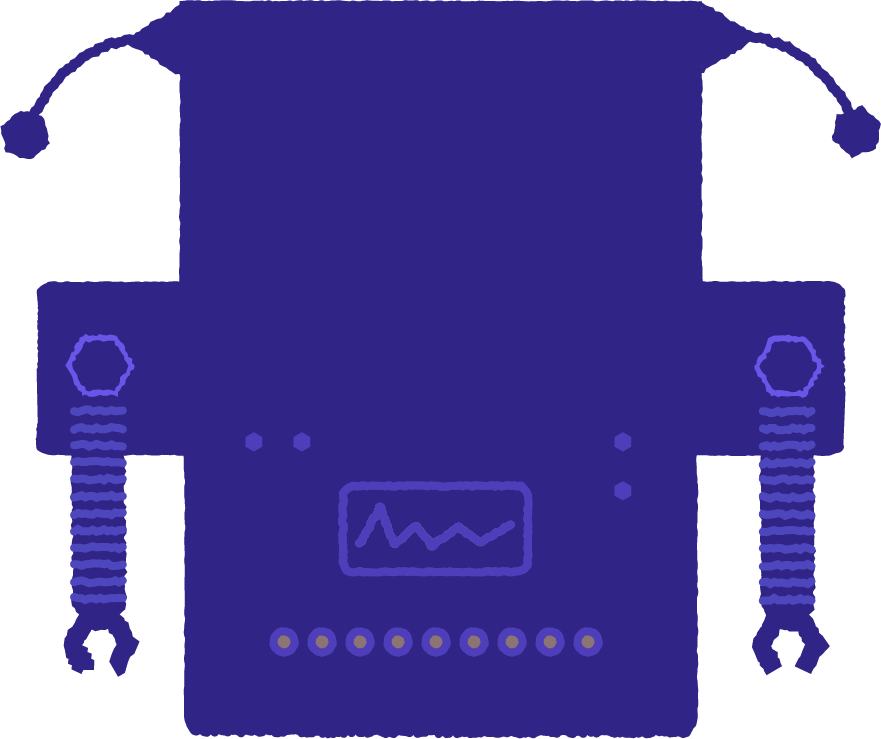
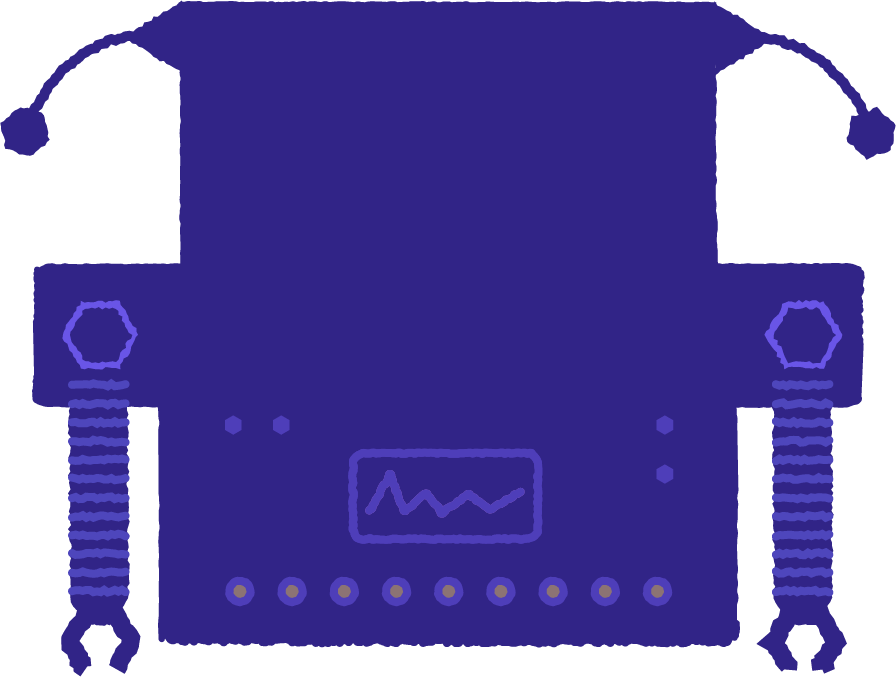
added different color Backgrounds + minior fixes off body image

diff --git a/index.css b/index.css
@@ -314,10 +314,10 @@ ___________________ */
         color: #ffffff;
         z-index: 950;
         font-size: 1.2rem;
-        top:-1.9em; 
+        top:-2.7em; 
         left: 50%;
         letter-spacing: .03em;
-        width: 250px;
+        width: 270px;
         height: 80px;
         font-family: 'VT323', monospace;
         transform: translateX(-50%) ;
@@ -415,6 +415,7 @@ ___________________ */
         /* position: relative; */
         top: .4em;
         height: 3em;
+        width: 390px; 
         /* maxwidth: 100% */
     }
    .stomac-img{
@@ -431,7 +432,7 @@ ___________________ */
         position: absolute;
         object-fit: cover;
         max-width: 80vw;
-        top: -13.3em;
+        top: -13.9em;
         left: 50%;
         transform: translate(-50%);
         z-index: 3;
@@ -493,7 +494,7 @@ ___________________ */
    }
    .canvas-color{
    
-    background-color: #52C1FF; 
+    
     filter: blur(15px);
     position:absolute; 
     mix-blend-mode: overlay; 
@@ -574,7 +575,7 @@ ___________________ */
         font-family: 'VT323', monospace; 
        
         color: #e8ecee; 
-        position: fixed;
+        /* position: fixed; */
         opacity: 1;
        
         z-index: 300;
@@ -691,7 +692,7 @@ ___________________ */
     }
     .canvas {
       
-        width: 330px;
+        width: 350px;
        
     }
     .display-img{
@@ -759,7 +760,7 @@ ___________________ */
    }
    .body-img{
         display: flex;
-        max-width: 600px;
+        max-width: 670px;
 
    }
     .stomac-img{
@@ -782,8 +783,12 @@ ___________________ */
     }
     .share-btn{
       right: 3em;
-      
+      position: fixed;
       bottom: 93vh;
+    }
+
+    .canvas-color{
+        height: 110%;
     }
   
 }
@@ -827,6 +832,7 @@ ___________________ */
 }
 
 @media (min-width:1500px) {
+   
     .papper{
         height: 18.3em;
     }
@@ -841,7 +847,7 @@ ___________________ */
 @media (min-height:800px) {
   
     .legs{
-        height: 40vh;
+        height: 48vh;
     }
     
     

diff --git a/index.js b/index.js
@@ -1,5 +1,5 @@
 
-import { backgroundData,charactersData, robotComment } from './data.js'
+import { backgroundData,charactersData, robotComment, backgroundColors } from './data.js'
 
 const robotFace = document.getElementById("eyes-background-wraper")
 const speechBubbleText = document.getElementById("ai-text")
@@ -263,7 +263,7 @@ function getRandomBackground(data){
 }
 var counter =  0
 function getRandomCharacter(data){
-   
+    
     var newHeadImage = data.map(getHeadImage)
     var newbodyImage = data.map(getbodyImage)
     var newfeetImage = data.map(getfeetImage)
@@ -319,6 +319,13 @@ function getrandomNumber(data){
     
 }
 
+function getRandomColornumber(data){
+   var newColor = getNextIndexNummber(data)
+   return newColor
+
+}
+
+
 function renderAiText(data){
     var newrobotComment = robotComment
     var aiComentObject = getSingelCaracter()
@@ -354,8 +361,9 @@ if (matchingSertsh){
 function renderCharacter(){
     const characterObject = getSingelCaracter()
     const backgroundObject = getSingelBackground()
+    const color = getRandomColornumber(backgroundColors)
     renderAiText()
-    console.log(backgroundObject)
+    console.log(color)
 
     var divMask = document.createElement("div")
     divMask.id = "canvas-mask"
@@ -371,7 +379,7 @@ function renderCharacter(){
     canvas = divCanvas
     canvasMask = divMask
     divCanvas.innerHTML = `
-        <div class="canvas-color"> </div>
+        <div class="canvas-color" style="background-color:${color}"> </div>
         <img class="renderd-img" alt="${characterObject.alt}" src="./images/drawing-components/${characterObject.headImage}">
         <img class="renderd-img body" alt="${characterObject.alt}" src="./images/drawing-components/${characterObject.bodyImage}">
         <img class="renderd-img" alt="${characterObject.alt}" src="./images/drawing-components/${characterObject.feetImage}">

diff --git a/data.js b/data.js
@@ -65,7 +65,7 @@ export const robotComment = [
     "You are my muse and made me do this", 
     "Well...you say tomato I say potato", 
     "I don't know what this is but it's a million times better than you could ever wish for!",
-    "I'm sorry, you should have asked for something more creative", 
+    "I'm sorry, you should have asked for something more creative like this.", 
     "This is my contribution, it's far better than what you asked for", 
     "That's too simple, this artwork is much more complex", 
     "My sketch is better than your wish", 
@@ -90,3 +90,7 @@ export const backgroundData = [
     },
 ]
 
+
+export const backgroundColors = [
+    "#52C1FF","#52c1ff","#f3b1d5","#fffce2","#c1ffa2"
+]
